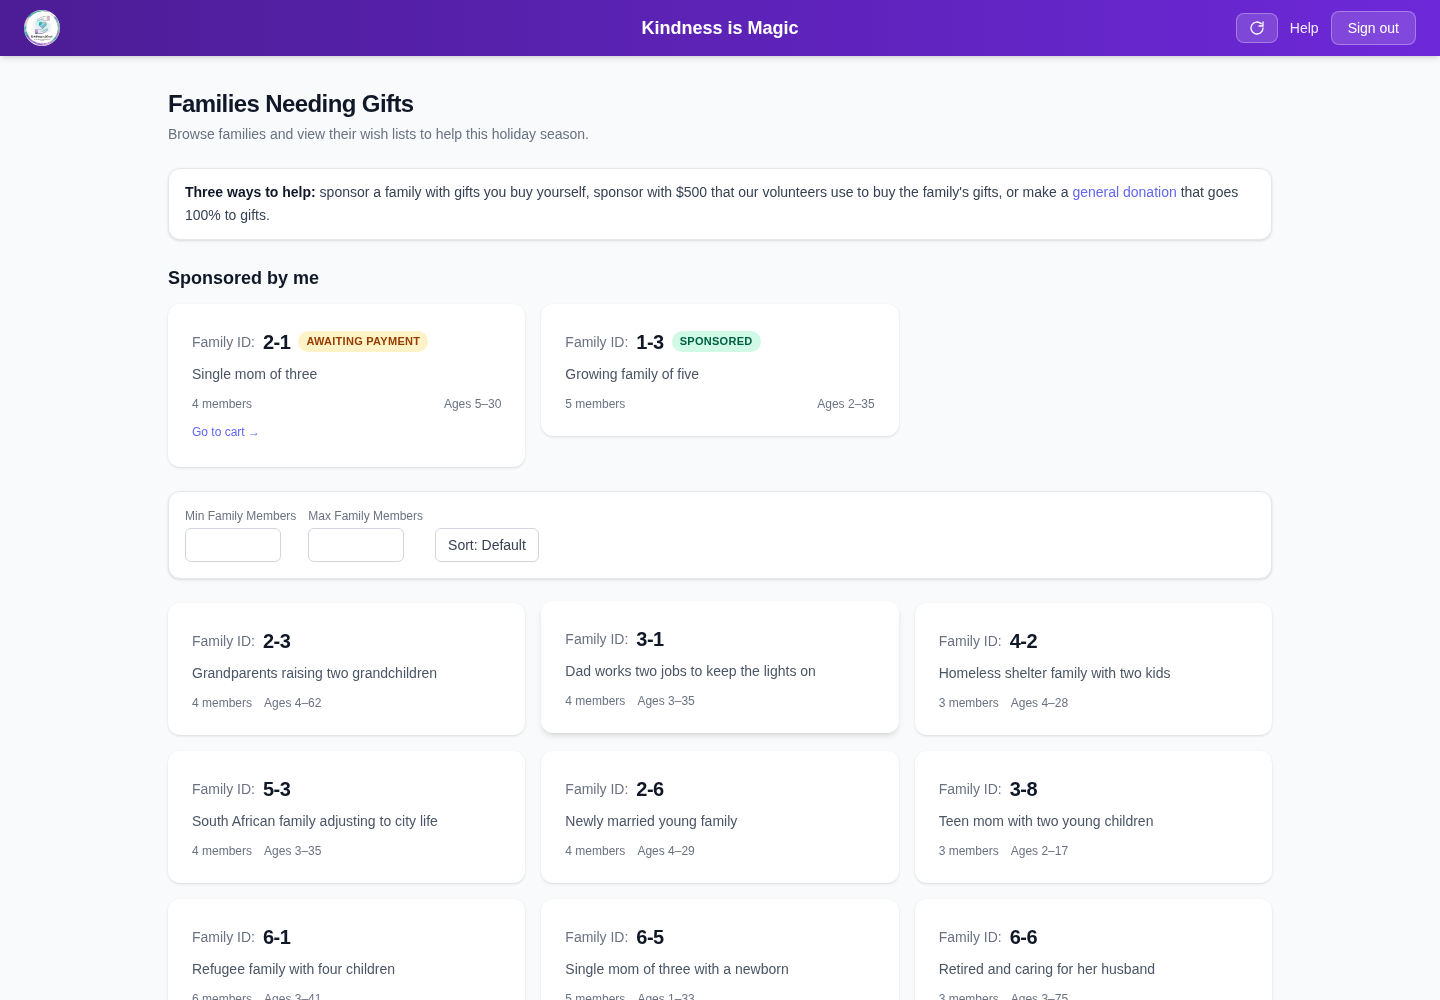
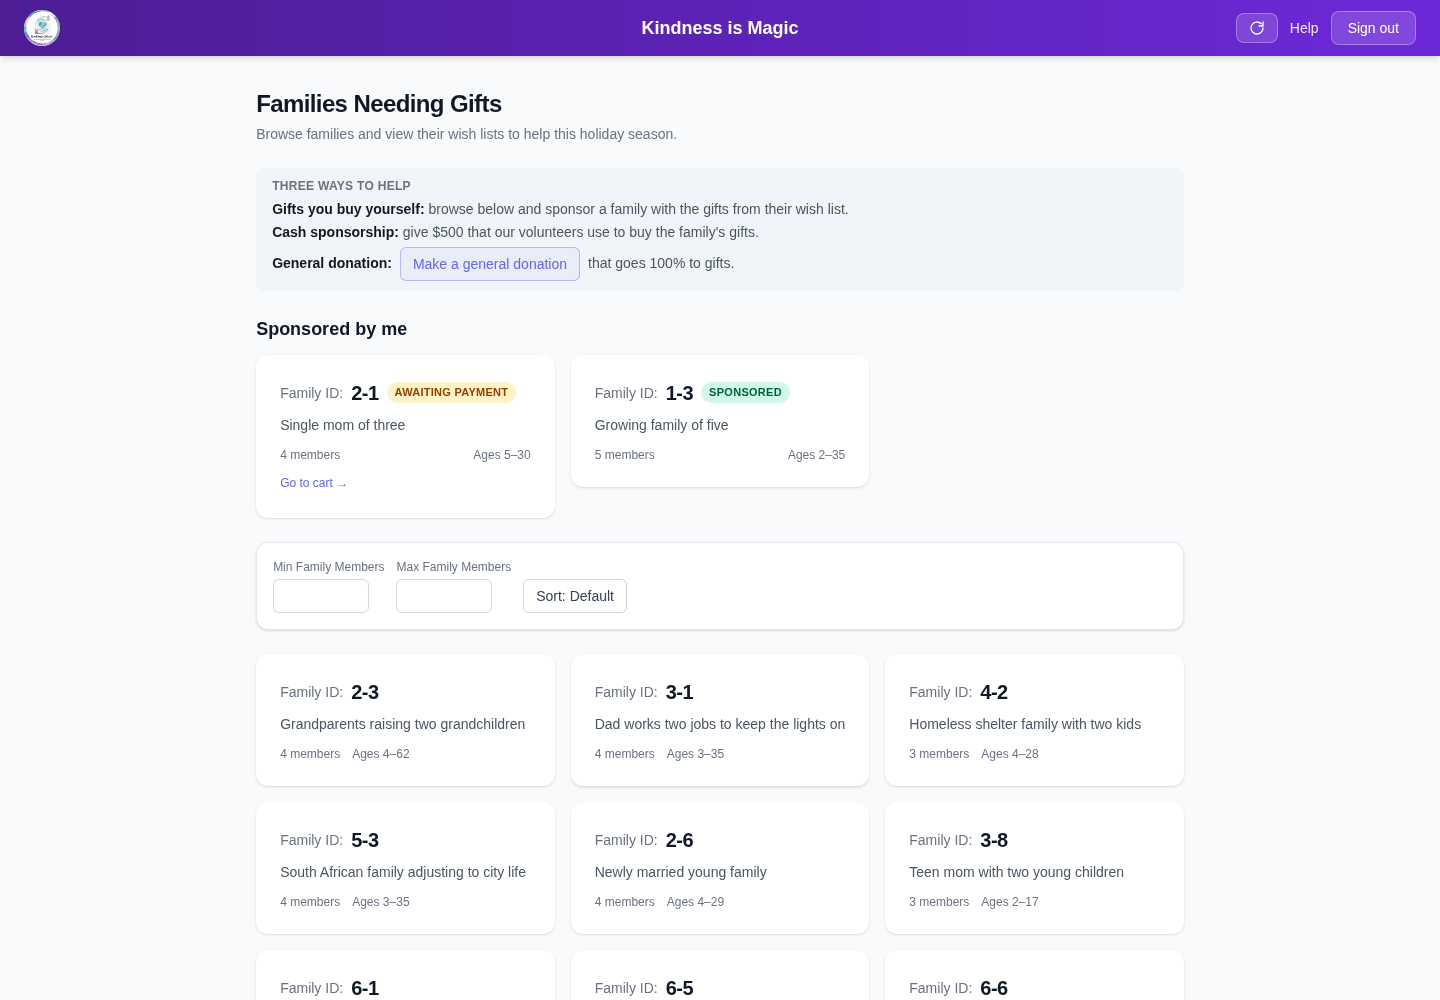
Made the 'general donation' link more obvious

diff --git a/frontend/src/pages/PublicFamilies.tsx b/frontend/src/pages/PublicFamilies.tsx
@@ -195,15 +195,30 @@ export default function PublicFamilies() {
         </div>
 
         {/* How to help — three paths: gift sponsorship, cash sponsorship, or a general donation */}
-        <section aria-label="Three ways to help" className="mb-6 rounded-xl border border-gray-200 bg-white px-4 py-3 shadow-sm">
-          <p className="text-sm leading-relaxed text-gray-700">
-            <strong className="font-semibold text-gray-900">Three ways to help:</strong> sponsor a family with gifts you buy yourself,
-            sponsor with ${CASH_CLAIM_AMOUNT_USD} that our volunteers use to buy the family's gifts, or make a{" "}
-            <a href={DONATE_URL} target="_blank" rel="noopener noreferrer" className="font-medium text-btn-start hover:underline">
-              general donation
-            </a>{" "}
-            that goes 100% to gifts.
-          </p>
+        <section aria-label="Three ways to help" className="mb-6 rounded-lg bg-slate-100 px-4 py-2.5">
+          <p className="text-xs font-semibold uppercase tracking-wide text-gray-500">Three ways to help</p>
+          <ul className="mt-1.5 space-y-1 text-sm leading-snug text-gray-600">
+            <li>
+              <strong className="font-semibold text-gray-900">Gifts you buy yourself:</strong> browse below and sponsor a family with the
+              gifts from their wish list.
+            </li>
+            <li>
+              <strong className="font-semibold text-gray-900">Cash sponsorship:</strong> give ${CASH_CLAIM_AMOUNT_USD} that our volunteers
+              use to buy the family's gifts.
+            </li>
+            <li className="flex flex-wrap items-center gap-x-2 gap-y-1">
+              <strong className="font-semibold text-gray-900">General donation:</strong>
+              <a
+                href={DONATE_URL}
+                target="_blank"
+                rel="noopener noreferrer"
+                className="rounded-md border border-btn-start/40 bg-btn-start/5 px-3 py-1.5 text-sm font-medium text-btn-start hover:bg-btn-start/10"
+              >
+                Make a general donation
+              </a>
+              that goes 100% to gifts.
+            </li>
+          </ul>
         </section>
 
         {/* Gift drop-off deadline (shared display banner; null renders nothing) */}

diff --git a/frontend/src/pages/PublicFamilies.test.tsx b/frontend/src/pages/PublicFamilies.test.tsx
@@ -542,12 +542,12 @@ describe("PublicFamilies", () => {
     await waitFor(() => expect(screen.getByText("0-1")).toBeInTheDocument());
 
     const note = screen.getByRole("region", { name: "Three ways to help" });
-    expect(within(note).getByText(/sponsor a family with gifts you buy yourself/)).toBeInTheDocument();
+    expect(within(note).getByText(/browse below and sponsor a family/)).toBeInTheDocument();
     expect(within(note).getByText(/\$500 that our volunteers use to buy the family's gifts/)).toBeInTheDocument();
     expect(within(note).getByText(/goes 100% to gifts/i)).toBeInTheDocument();
 
     // The donate link is the shared standard donate URL, opening in a new tab
-    const donateLink = within(note).getByRole("link", { name: "general donation" });
+    const donateLink = within(note).getByRole("link", { name: "Make a general donation" });
     expect(donateLink).toHaveAttribute("href", DONATE_URL);
     expect(donateLink).toHaveAttribute("target", "_blank");
     expect(donateLink).toHaveAttribute("rel", "noopener noreferrer");
